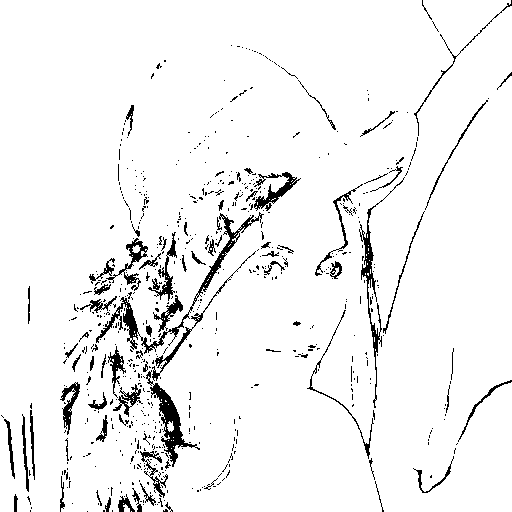
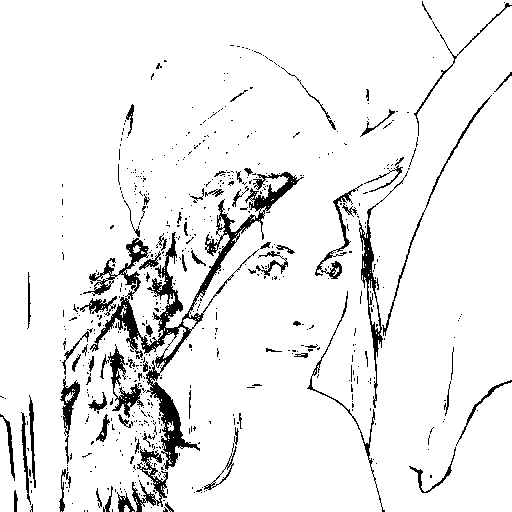
New default parameters. New gamma correction.

diff --git a/flood_fill_filter/private/xyz_loader.py b/flood_fill_filter/private/xyz_loader.py
@@ -1,33 +1,34 @@
 import numpy as np
 
 from flood_fill_filter.private.xyz import Xyz
+from flood_fill_filter.linear_srgb_conv import linear_to_srgb_gamma_correction
 
 
-def white_lowering_function(luma):
+def white_lowering_function(gamma_corrected_luma):
     """
     White is not very important for this filter.
     """
     t = 0.7
-    if luma > t:
-        return luma - luma * 0.25 * ((luma - t) / (1 - t))
+    if gamma_corrected_luma > t:
+        return gamma_corrected_luma - gamma_corrected_luma * 0.25 * ((gamma_corrected_luma - t) / (1 - t))
     else:
-        return luma
+        return gamma_corrected_luma
 
 
 v_white_lowering_function = \
     np.vectorize(white_lowering_function)
 
 
-def from_rgba(rgba):
-    r = rgba[:, :, 0]
-    g = rgba[:, :, 1]
-    b = rgba[:, :, 2]
+def from_rgba(linear_rgba):
+    r = linear_rgba[:, :, 0]
+    g = linear_rgba[:, :, 1]
+    b = linear_rgba[:, :, 2]
 
-    yXYZ = r * 0.2126 + g * 0.7152 + b * 0.0722
-    xXYZ = r * 0.4124 + g * 0.3576 + b * 0.1805
-    zXYZ = r * 0.0193 + g * 0.1192 + b * 0.9505
+    y = r * 0.2126 + g * 0.7152 + b * 0.0722
+    x = r * 0.4124 + g * 0.3576 + b * 0.1805
+    z = r * 0.0193 + g * 0.1192 + b * 0.9505
 
-    yGamma = yXYZ ** (1 / 2.2)
-    yGammaLowWhite = v_white_lowering_function(yGamma)
+    y_gamma = linear_to_srgb_gamma_correction(y)
+    y_gamma_low_white = v_white_lowering_function(y_gamma)
 
-    return Xyz(yGammaLowWhite, xXYZ, zXYZ)
+    return Xyz(y_gamma_low_white, x, z)

diff --git a/flood_fill_filter/private/xyz.py b/flood_fill_filter/private/xyz.py
@@ -116,16 +116,19 @@ class Xyz:
         return np.logical_and(
             y_equal,
             np.logical_or(
-                np.logical_and(
+                np.logical_or(self.yXYZ <= (25 / 255), other.yXYZ <= (25 / 255)),
+                np.logical_or(
                     np.logical_and(
-                        np.logical_or(self.yXYZ > 0.5, other.yXYZ > 0.5),
-                        xd < tf / 0.5
+                        np.logical_and(
+                            np.logical_or(self.yXYZ > 0.5, other.yXYZ > 0.5),
+                            xd < tf / 0.5
+                        ),
+                        zd < tf / 0.5
                     ),
-                    zd < tf / 0.5
-                ),
-                np.logical_and(
-                    xd < tf,
-                    zd < tf
+                    np.logical_and(
+                        xd < tf,
+                        zd < tf
+                    )
                 )
             )
         )

diff --git a/flood_fill_filter/linear_srgb_conv.py b/flood_fill_filter/linear_srgb_conv.py
@@ -18,11 +18,15 @@ def float_to_byte(a):
     return np.fmax(np.fmin(np.rint(255.0 * a), 255.0), 0.0)
 
 
-def linear_to_srgb(lin):
+def linear_to_srgb_gamma_correction(lin):
     a = 0.055
-    array_if = float_to_byte(lin * 12.92)
-    array_else = float_to_byte(np.power(lin, 1.0 / 2.4) * (1 + a) - a)
+    array_if = lin * 12.92
+    array_else = np.power(lin, 1.0 / 2.4) * (1 + a) - a
     return np.where(lin <= 0.0031308, array_if, array_else)
+
+
+def linear_to_srgb(lin):
+    return float_to_byte(linear_to_srgb_gamma_correction(lin))
 
 
 def to_linear(r, g, b, a):

diff --git a/flood_fill_filter/flood.py b/flood_fill_filter/flood.py
@@ -107,8 +107,8 @@ def filter_row(input):
     }
 
 
-def filter(rgba, y_threshold=0.1, kernel_margin=4, ratio_threshold=0.45):
-    original_image = xyz_loader.from_rgba(rgba)
+def filter(linear_rgba, y_threshold=0.092, kernel_margin=4, ratio_threshold=0.45):
+    original_image = xyz_loader.from_rgba(linear_rgba)
     equality_matrices = calculations.equality_matrices(original_image, kernel_margin, y_threshold)
 
     flood_fill_result = np.zeros((original_image.h, original_image.w), dtype=np.bool)

diff --git a/flood_fill_filter/__main__.py b/flood_fill_filter/__main__.py
@@ -48,7 +48,7 @@ def main():
         formatter_class=argparse.RawDescriptionHelpFormatter
     )
 
-    parser.add_argument('-d', '--diff', type=float_from_0_to_1_exclusive, default=0.1,
+    parser.add_argument('-d', '--diff', type=float_from_0_to_1_exclusive, default=0.092,
                         help='Y (CIE XYZ) sensitivity. Default: 0.1.')
 
     parser.add_argument('-a', '--activation-threshold', type=float_from_0_to_1_exclusive, default=0.45,
